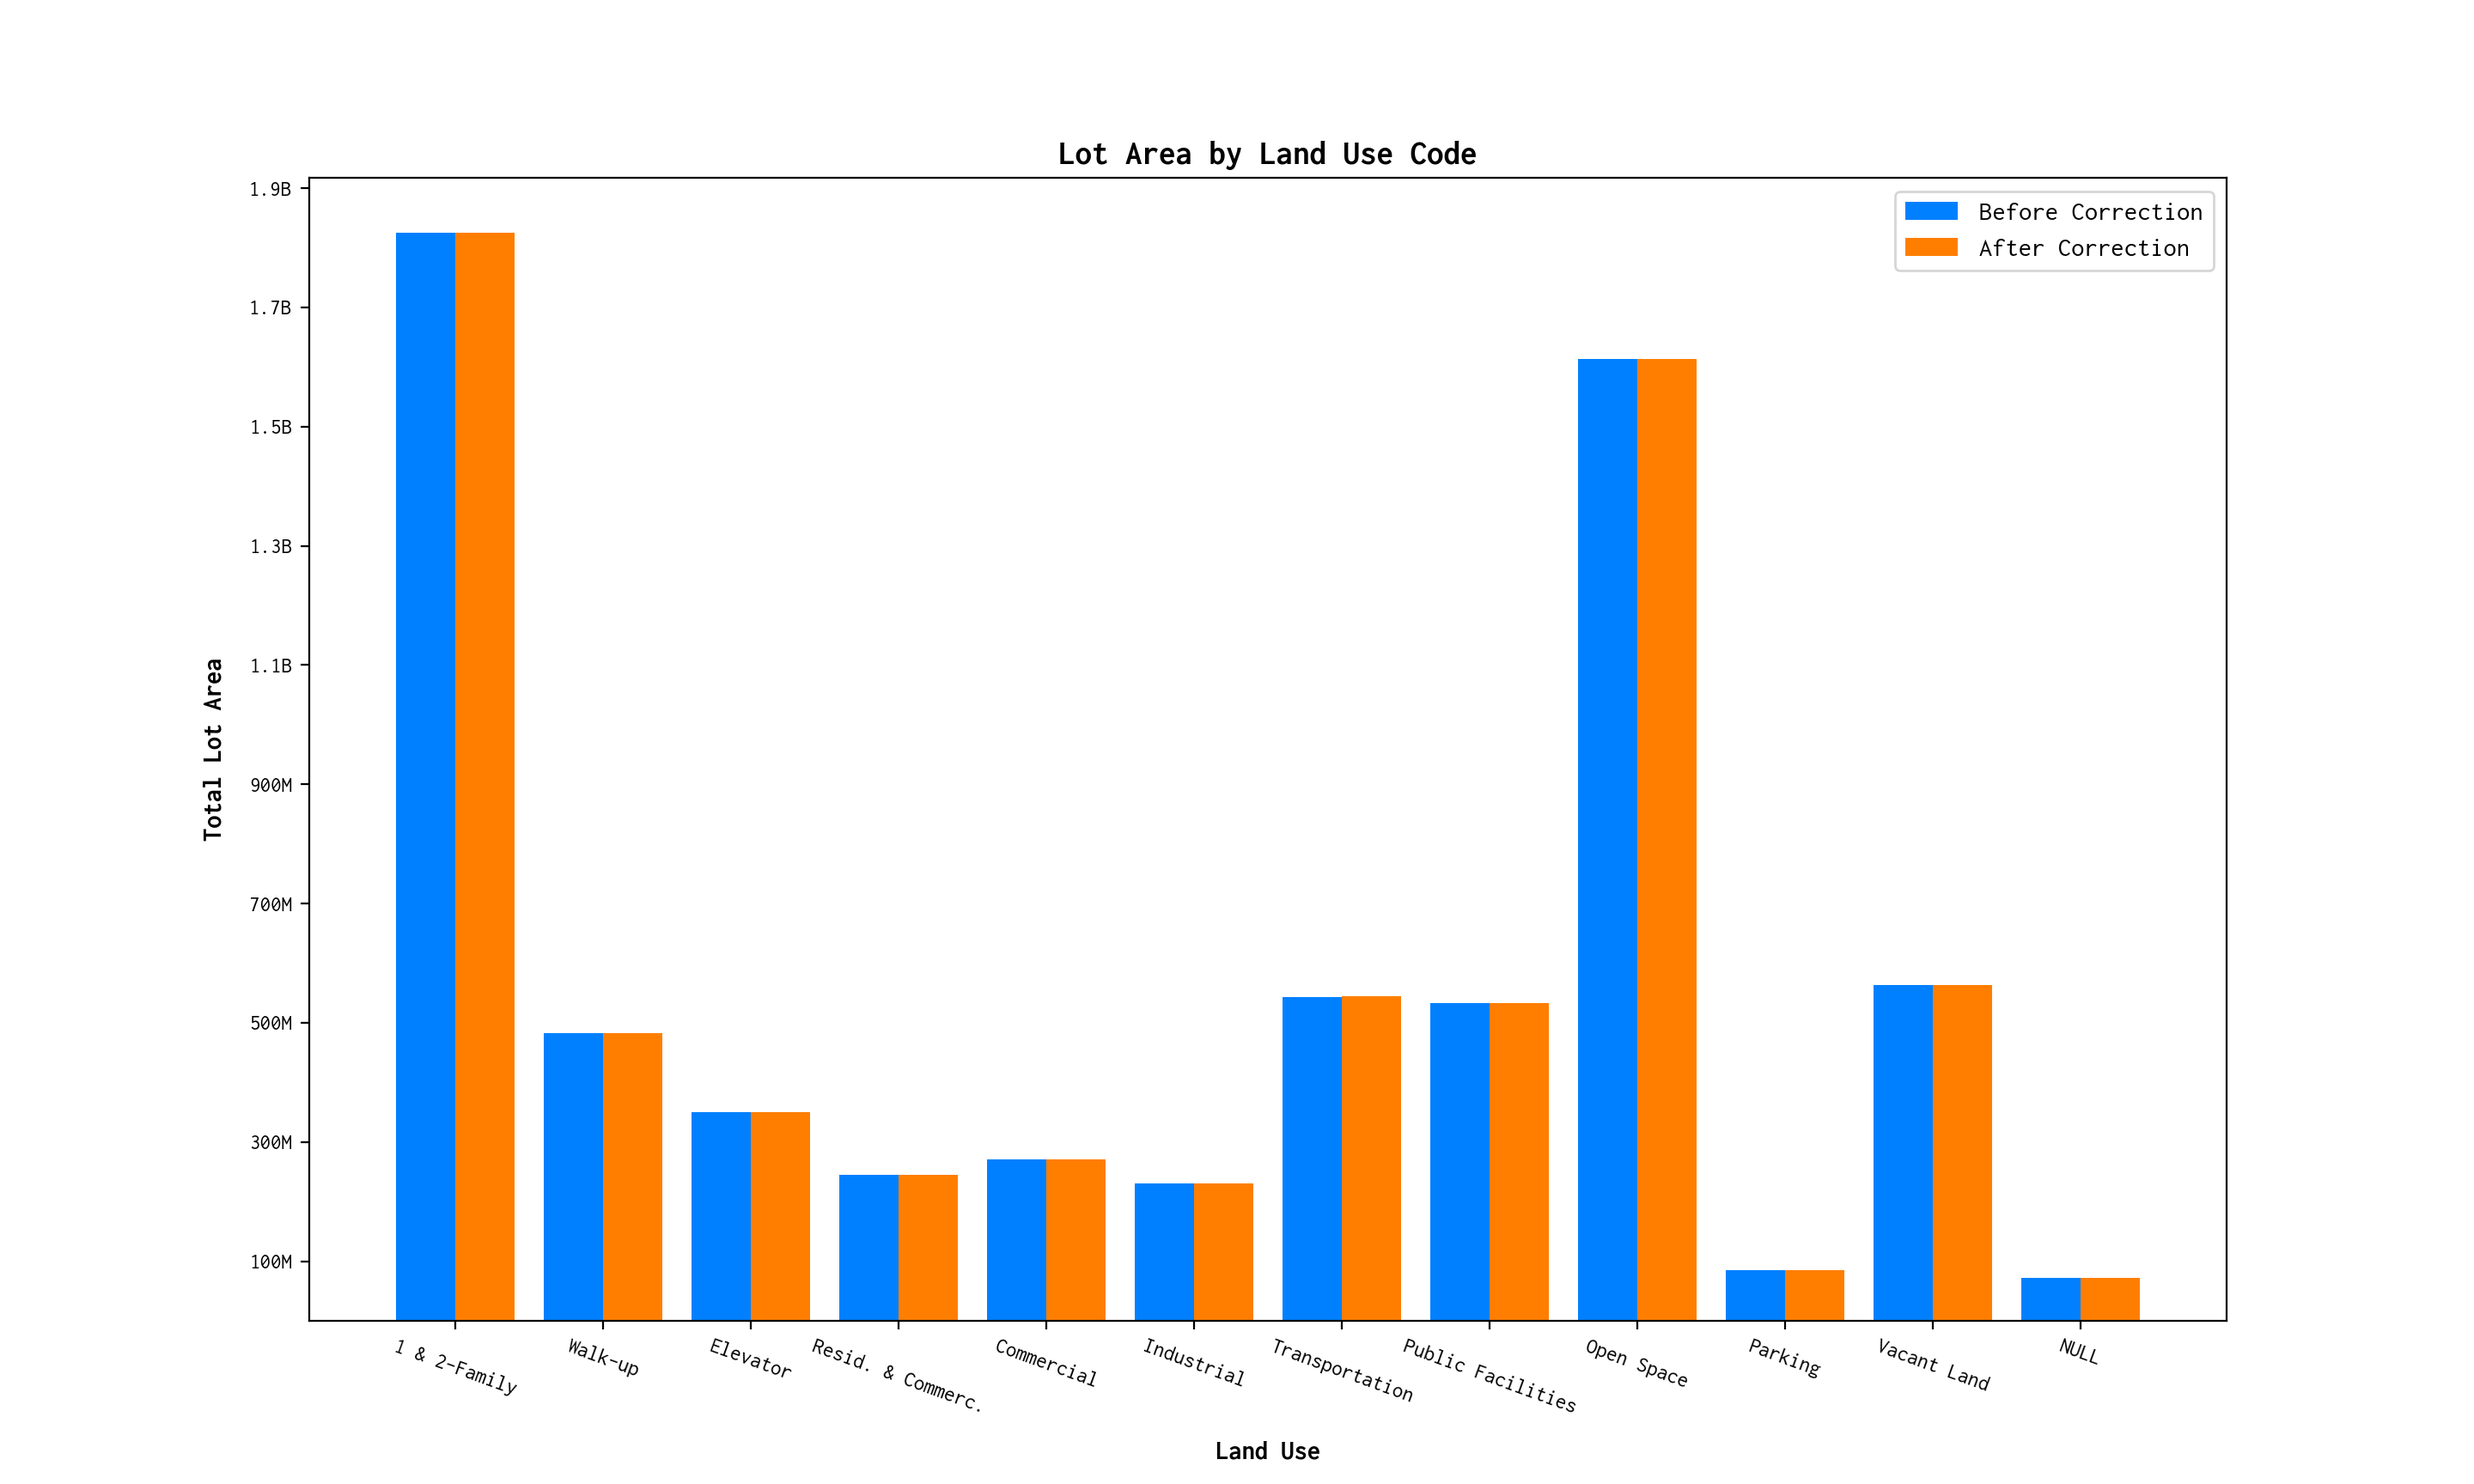
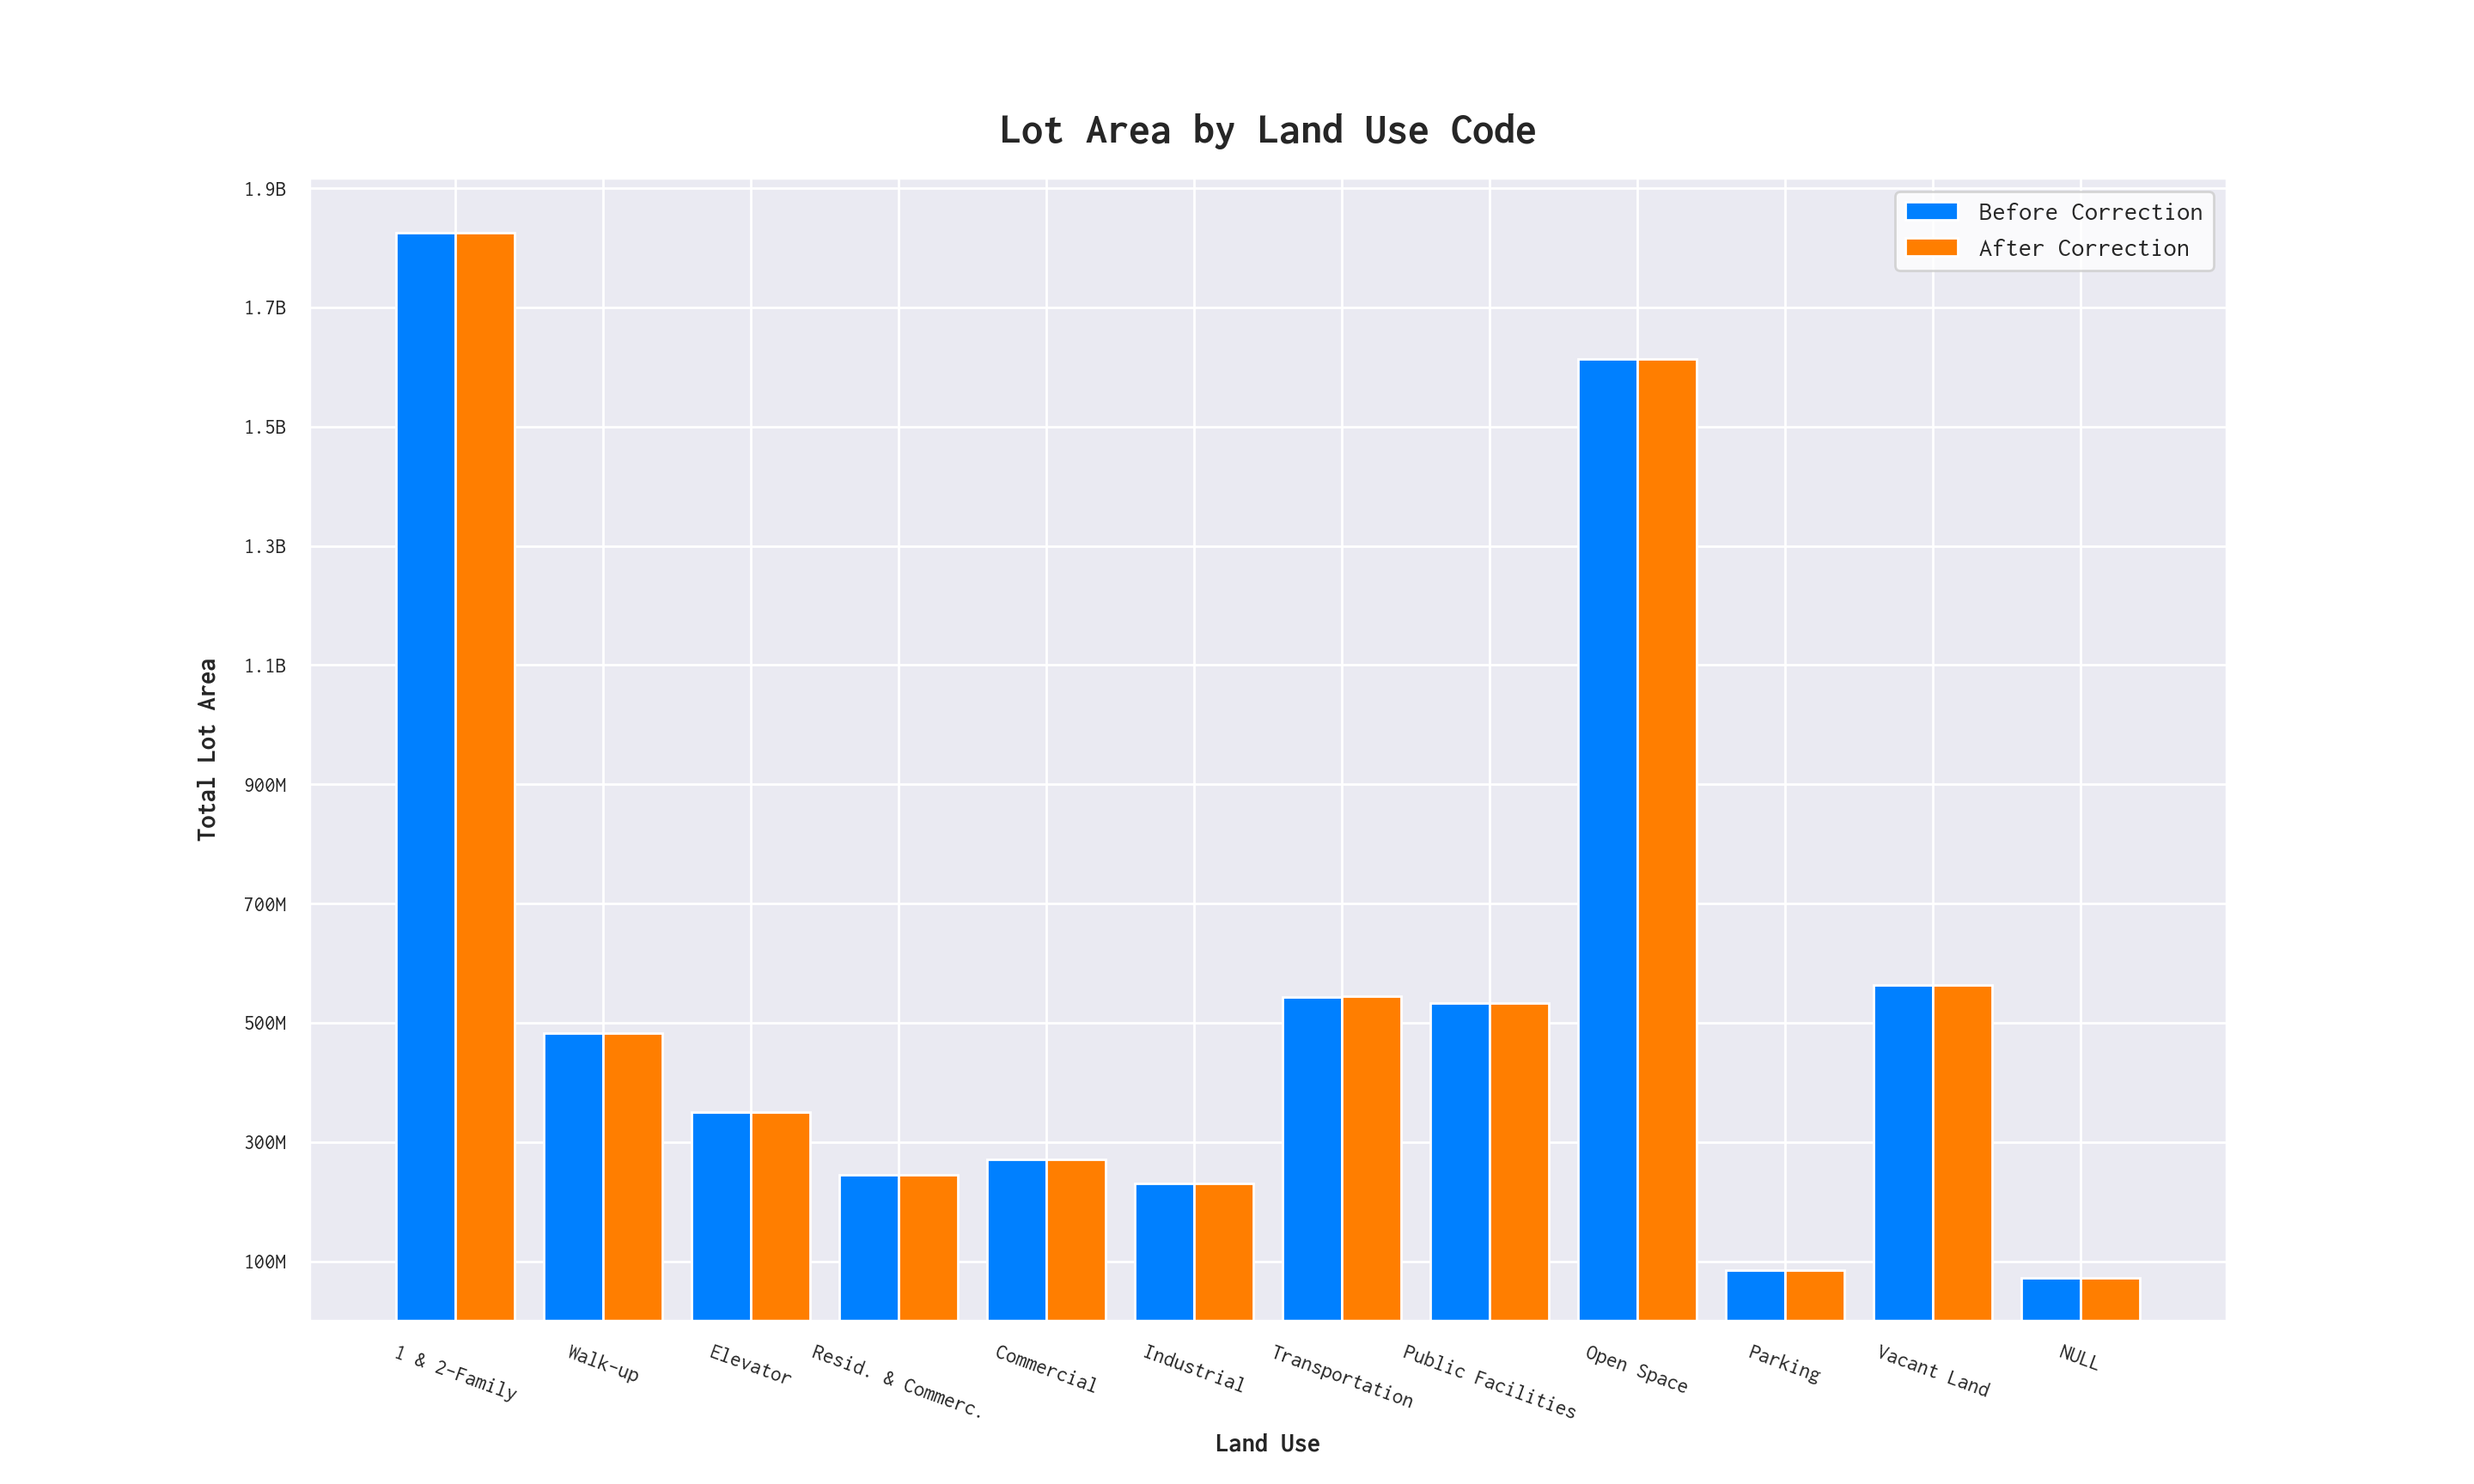
add seaborn

diff --git a/lotarea 2016-10/python/lotarea_barchart.py b/lotarea 2016-10/python/lotarea_barchart.py
@@ -7,12 +7,15 @@ import os
 from matplotlib import rcParams
 import matplotlib.pyplot as plt
 import matplotlib.ticker as tick
+import seaborn as sns
 import numpy as np
+
+sns.set()
 
 SMALL_SIZE = 7
 MEDIUM_SMALL_SIZE = 9
 MEDIUM_SIZE = 11
-BIGGER_SIZE = 14
+BIGGER_SIZE = 18
 
 rcParams['font.family'] = 'sans-serif'
 rcParams['font.sans-serif'] = ['Inconsolata']
@@ -66,13 +69,16 @@ with open(full_path) as csv_file:
     ax.ticklabel_format(useOffset=False, style='plain')
     ax.yaxis.set_major_formatter(tick.FuncFormatter(y_fmt))
 
-    plt.xlabel('Land Use', fontweight='bold', labelpad=10)
+    plt.xlabel('Land Use', fontweight='bold')
     plt.ylabel('Total Lot Area', fontweight='bold', labelpad=10)
-    plt.title('Lot Area by Land Use Code', fontweight='bold')
+    plt.title('Lot Area by Land Use Code', fontweight='bold', pad=15)
     plt.xticks(rotation=-20)
     plt.xticks(r1 + width / 2, landuse)
     plt.yticks(np.arange(100000000, 2000000000, 200000000))
-    plt.legend(loc='best')
+    plt.legend(loc='upper right', shadow='bool')
+    legend = plt.legend()
+    frame = legend.get_frame()
+    frame.set_facecolor('white')
     plt.show()
 
 print('Module ended.')
